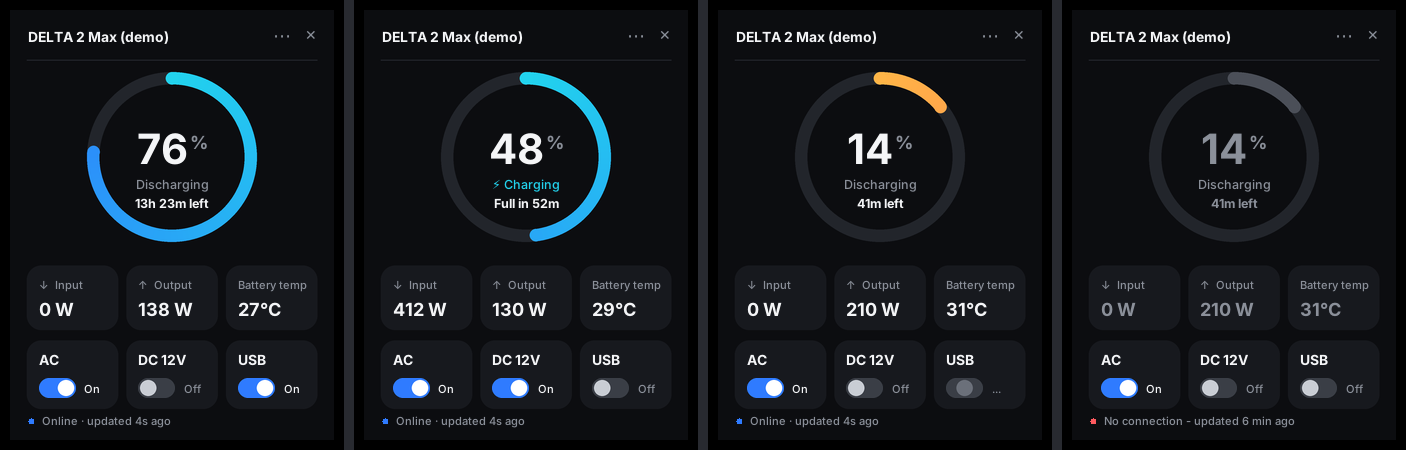
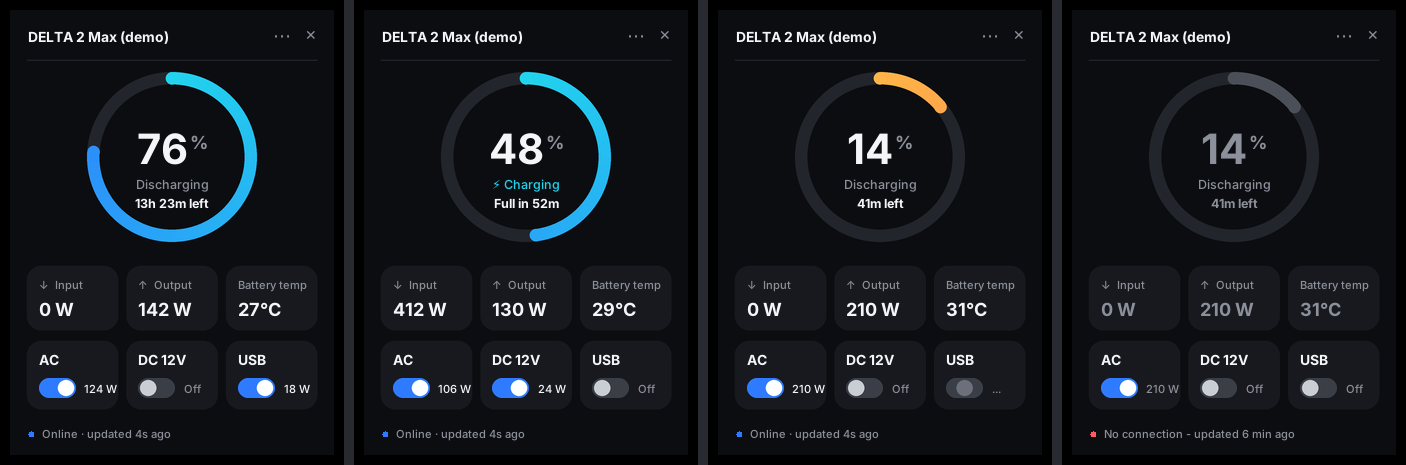
Show live watts for each output port (AC / DC 12V / USB)
When a port is on, the label next to its switch now shows how many
watts that port is drawing instead of just "On". USB is the sum of
all USB-A and USB-C ports. Falls back to "On" if the station doesn't
report per-port power. README screenshots and docs updated (EN/UA).

Claude-Session: https://claude.ai/code/session_01TxfFmKoHkPoyM2cdbTX8SP

diff --git a/README.uk.md b/README.uk.md
@@ -12,7 +12,7 @@
 
 - Кільце заряду батареї у відсотках, стан (заряджається чи розряджається) і час до повного заряду або розряду
 - Вхідна та вихідна потужність, температура батареї
-- Перемикачі виходів AC, DC 12V і USB (перед вимкненням AC віджет просить підтвердження)
+- Перемикачі виходів AC, DC 12V і USB з поточною потужністю кожного порту (перед вимкненням AC віджет просить підтвердження)
 - Значок у треї з відсотком заряду: колір залежить від рівня, при наведенні видно коротке зведення, а в меню є перемикачі виходів
 - Чітко показує, коли дані застаріли або зв'язок втрачено
 - Secret Key зберігається в Диспетчері облікових даних Windows, а не у файлі
@@ -50,7 +50,7 @@
 Інтерфейс віджета англійською, тому нижче назви кнопок і пунктів меню наведено так, як вони виглядають у програмі.
 
 - **Перетягуйте** панель куди завгодно. Положення запам'ятовується.
-- **Клацніть плитку AC, DC 12V або USB**, щоб увімкнути чи вимкнути цей вихід. Синій перемикач означає "увімкнено". Перед вимкненням AC віджет попросить підтвердження, бо це знеструмить усе, що підключено до розеток станції.
+- **Клацніть плитку AC, DC 12V або USB**, щоб увімкнути чи вимкнути цей вихід. Синій перемикач означає "увімкнено", а число поруч показує, скільки ват цей порт споживає зараз. Для USB це сума всіх портів USB-A і USB-C. Перед вимкненням AC віджет попросить підтвердження, бо це знеструмить усе, що підключено до розеток станції.
 - **Кільце** синє, коли заряд вище 20%, стає оранжево-червоним при 20% і нижче та сірим, коли дані застаріли.
 - **Права кнопка миші** на панелі або `...` відкриває меню: Refresh now (оновити), Settings (налаштування), Open data folder (папка з даними), Quit (вийти). Кнопка `x` ховає панель у трей.
 - **Значок у треї** показує відсоток заряду. Він синій у звичайному стані, червоний при 20% і нижче та сірий, коли дані застаріли. Біла смужка під числом означає, що станція заряджається. Ліва кнопка показує або ховає панель, права відкриває меню з перемикачами виходів. Наведіть курсор, щоб побачити коротке зведення.

diff --git a/README.md b/README.md
@@ -12,7 +12,7 @@ A small always-on-top widget and tray icon for Windows that shows the live statu
 
 - Battery % ring, charging or discharging state, time to full or empty
 - Input and output watts, battery temperature
-- AC, DC 12V and USB output switches (turning AC off asks for confirmation first)
+- AC, DC 12V and USB output switches with live watts for each port (turning AC off asks for confirmation first)
 - Tray icon with the battery %, colored by level, a summary on hover and the output switches in its menu
 - Shows clearly when data is stale or the connection is lost
 - The Secret Key is stored in Windows Credential Manager, not in a file
@@ -48,7 +48,7 @@ Windows may show a security warning when you first run `install.bat`, because th
 ## Using it
 
 - **Drag** the panel anywhere. It remembers the position.
-- **Click an AC, DC 12V or USB tile** to switch that output. A blue switch means on. Turning AC off asks for confirmation, because it cuts power to everything plugged into the station's AC sockets.
+- **Click an AC, DC 12V or USB tile** to switch that output. A blue switch means on, and the number next to it is how many watts that port is using right now. USB adds up all USB-A and USB-C ports. Turning AC off asks for confirmation, because it cuts power to everything plugged into the station's AC sockets.
 - **The ring** is blue above 20%, turns orange-red at 20% and below, and goes grey when the data is stale.
 - **Right-click** the panel or click `...` for Refresh now, Settings, Open data folder and Quit. The `x` hides the panel to the tray.
 - **The tray icon** shows the battery %. It is blue normally, red at 20% and below, and grey when data is stale. A white line under the number means charging. Left-click shows or hides the panel, right-click opens a menu with the output switches. Hover for a summary.
